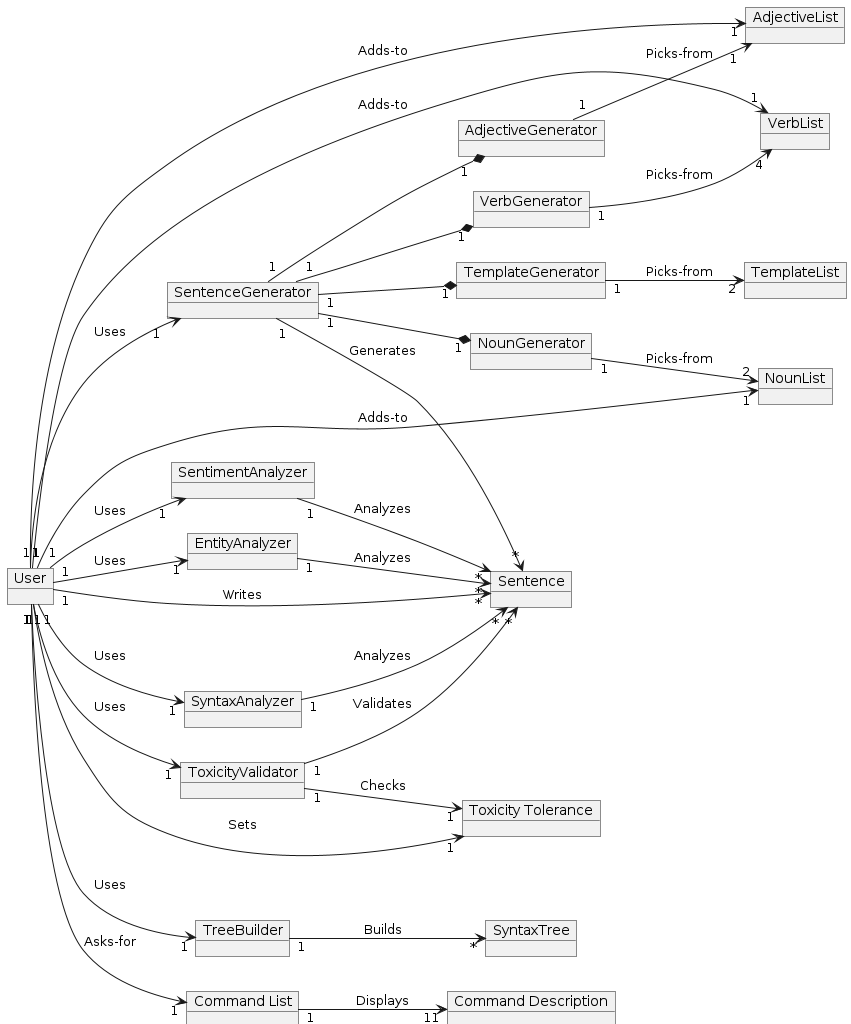
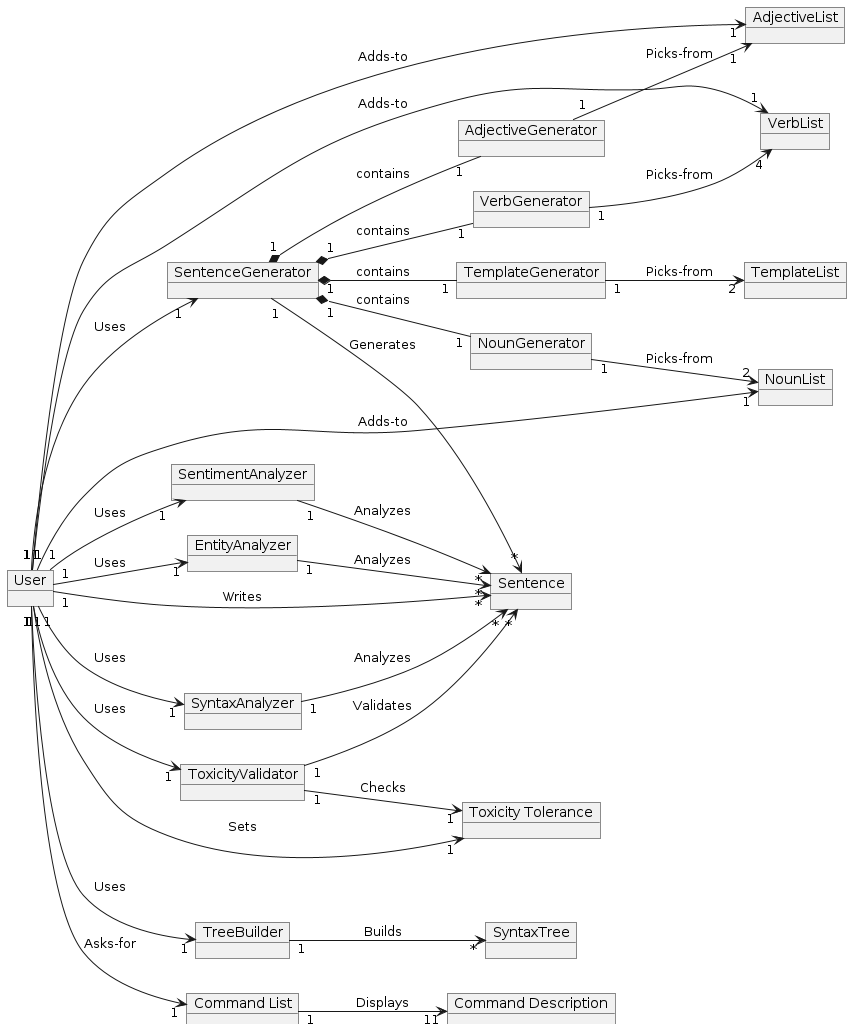
updated domain model

diff --git a/docs/domainModel.md b/docs/domainModel.md
@@ -36,10 +36,10 @@ object "Command Description" as CD
 U "1"--> "*"S : Writes
 
 U "1"--> "1"Sgen : Uses
-Sgen "1"--* "1"Tgen
-Sgen "1"--* "1"Ngen
-Sgen "1"--* "1"Vgen
-Sgen "1"--* "1"Agen
+Sgen "1"*-- "1"Tgen: contains
+Sgen "1"*-- "1"Ngen: contains
+Sgen "1"*-- "1"Vgen: contains
+Sgen "1"*-- "1"Agen: contains
 Sgen "1"--> "*"S: Generates
 
 U "1"--> "1"ToxA: Uses
@@ -71,3 +71,8 @@ CL"1" --> "11"CD: Displays
 
 @enduml
 ```
+
+# Notes
+* The given domain model is a showcase of the program's features and as such doesn't include commands as the "default" or "personalized" ones, as those are routines that implement a combination of the other represented commands. 
+* All generated sentences, analyses and syntax trees are displayed on screen and wiewable by the user once created, this is not represented in the domain model as it is considered implicit and grants a more clear and understandable graph.
+* The program also grants a log and a command to display log entries on console, this is not represented in the graph as this feature is aimed at developers and mainly used for debugging, which does not interest the average stakeholder.
